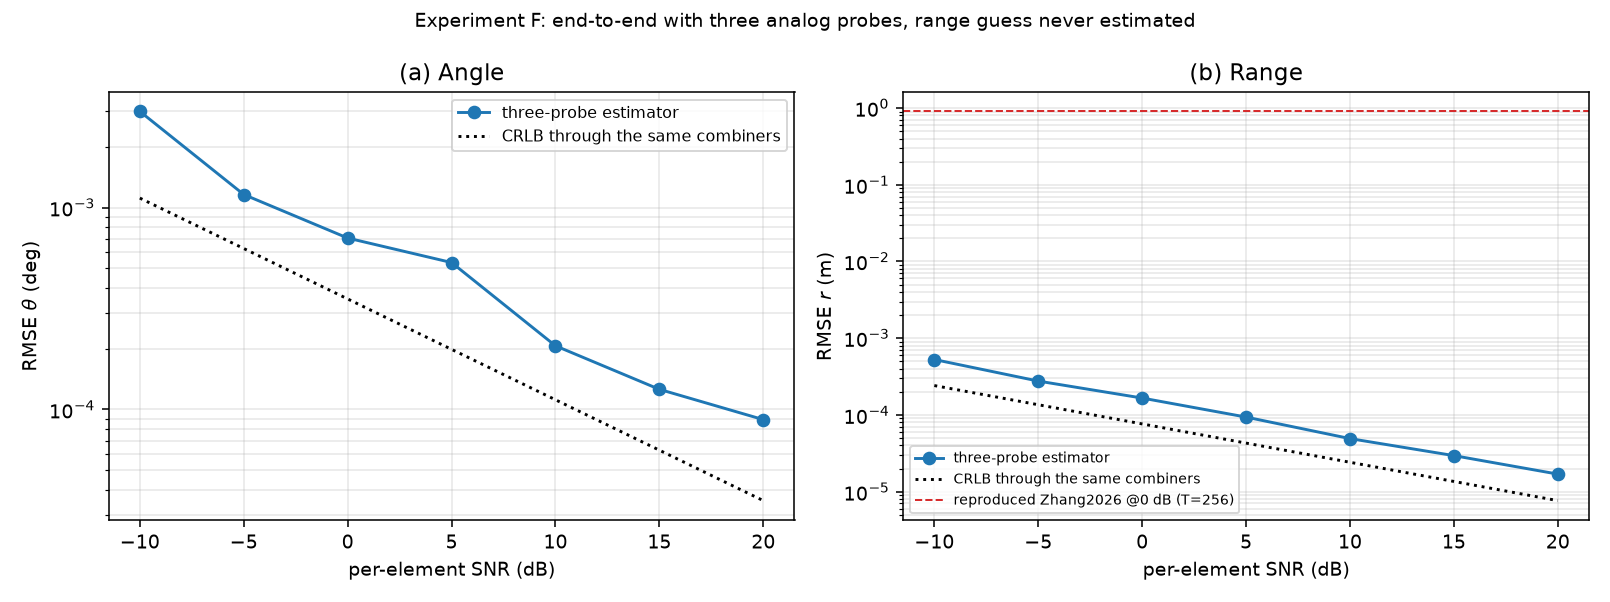
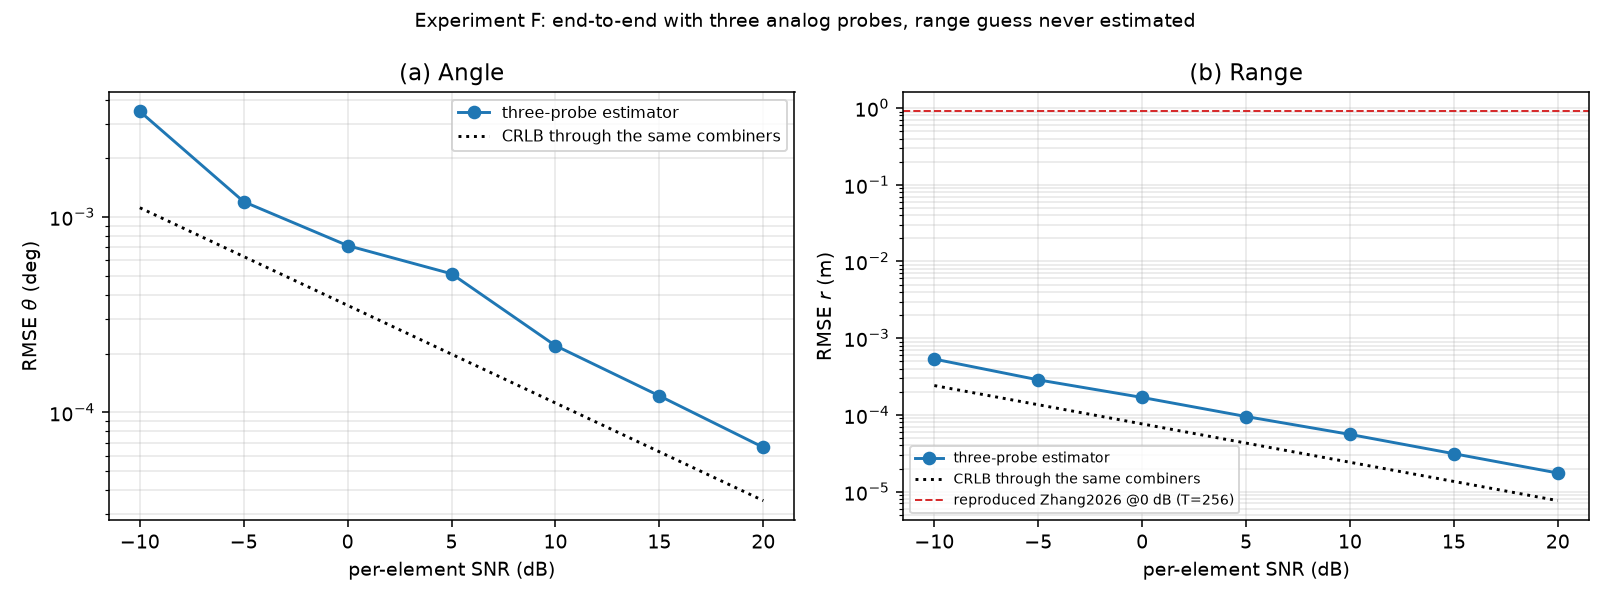
Use the measured coarse angle in Experiment F, and switch to Gauss-Newton
Stage B was being handed a fixed 0.016 deg coarse angle at every SNR, but that
figure came from a noiseless measurement; Experiment C measured the real
stage-A error per SNR, rising to 0.110 deg at -10 dB. Feeding in the measured
values flattered nothing and exposed a genuine defect: the derivative-free
simplex occasionally settled in a sidelobe about 1.5 beamwidths out, and single
such trials dominated the angle RMSE.

Bounding the angle search to three times the measured stage-A RMSE and
replacing the simplex with trust-region Gauss-Newton on the amplitude-
concentrated residual removes the outliers entirely: 1.87-3.12x the bound in
angle across the sweep with no window-edge hits, which the run now reports
rather than leaves unexamined. Range is unchanged and the sweep also runs
several times faster.

Claude-Session: https://claude.ai/code/session_01CiXyGmn6RkSvF3hrJKPw63

diff --git a/sim/exp_f_three_probe.py b/sim/exp_f_three_probe.py
@@ -32,7 +32,7 @@ the bound.  That factor is the thinning, not the estimator -- a spot check at
 import sys, os
 sys.path.insert(0, os.path.dirname(__file__))
 import numpy as np
-from scipy.optimize import minimize
+from scipy.optimize import least_squares
 import matplotlib
 matplotlib.use("Agg")
 import matplotlib.pyplot as plt
@@ -49,7 +49,13 @@ ML_DECIM = 4            # ML refinement thins further; the coarse FFT does not
 CKPT = os.path.join(os.path.dirname(__file__), "figs", "exp_f_ckpt.json")
 TIME_BUDGET = float(os.environ.get("EXP_F_BUDGET", 95))
 R_GUESS = 30.0                      # fixed; never estimated
-COARSE_ANGLE_ERR_DEG = 0.016        # what Experiment B actually delivers
+
+# The coarse angle handed to Stage B is not a constant.  Experiment B measured
+# 0.016 deg NOISELESSLY; under noise Experiment C measured it per SNR, and that
+# is what Stage B actually receives.  Using the noiseless figure at every SNR
+# would flatter the scheme at the low end, so the measured values are used.
+_c = np.load(os.path.join(FIG, "exp_c.npz"))
+COARSE_ANGLE_ERR_DEG = dict(zip([int(v) for v in _c["snr"]], _c["coarse_th"]))
 
 
 def beams(cfg, r0, th0, delta, f):
@@ -95,8 +101,15 @@ def coarse_range(z, f, r0):
     return r0 + dr, r0 - dr
 
 
-def estimate(cfg, z, V, f, th_init, r0):
-    """Two-parameter local ML on the whitened likelihood."""
+def estimate(cfg, z, V, f, th_init, r0, th_halfwidth=None):
+    """Two-parameter local ML on the whitened likelihood.
+
+    The angle search is bounded to th_init +- th_halfwidth.  Unbounded
+    Nelder-Mead occasionally walks into a sidelobe of the combined pattern about
+    1.5 beamwidths out and returns a confidently wrong angle; the bound keeps it
+    in the mainlobe.  The half-width is set to three times the MEASURED stage-A
+    angle RMSE, not tuned to the answer, and the fraction of trials that leave
+    the window is reported rather than hidden."""
     cands = [x for x in coarse_range(z, f, r0) if 0.5 < x < 200]
     if len(cands) == 2 and abs(cands[0] - cands[1]) < 1e-6:
         cands = cands[:1]                      # the FFT found no offset; one start suffices
@@ -110,12 +123,22 @@ def estimate(cfg, z, V, f, th_init, r0):
         den = np.vdot(h, h).real
         return -num / max(den, 1e-300)
 
-    best = None
+    def resid(p):
+        """Complex residual with the amplitude concentrated out, split for LM."""
+        h = response(cfg, p[0], p[1], V, f) @ W.T
+        alpha = np.vdot(h, zw) / max(np.vdot(h, h).real, 1e-300)
+        e = (zw - alpha * h).ravel()
+        return np.concatenate([e.real, e.imag])
+
+    best, best_cost = None, np.inf
     for r_try in cands:
-        sol = minimize(nll, [r_try, th_init], method="Nelder-Mead",
-                       options=dict(xatol=1e-10, fatol=1e-10, maxiter=300))
-        if best is None or sol.fun < best.fun:
-            best = sol
+        lo = [max(0.5, r_try - 5.0), th_init - (th_halfwidth or np.deg2rad(1.0))]
+        hi = [r_try + 5.0, th_init + (th_halfwidth or np.deg2rad(1.0))]
+        sol = least_squares(resid, [r_try, th_init], bounds=(lo, hi),
+                            method="trf", xtol=1e-14, ftol=1e-14, gtol=1e-14)
+        if sol.cost < best_cost:
+            best, best_cost = sol, sol.cost
+
     return (best.x[1], best.x[0]) if best is not None else (th_init, r0)
 
 
@@ -130,7 +153,9 @@ def run():
     print(f"[F] user ({np.rad2deg(th_true):.3f} deg, {r_true} m), N={cfg.N}, M={cfg.M}")
     print(f"    monopulse delta = {np.rad2deg(delta):.4f} deg (0.25 beamwidths), "
           f"range guess pinned at {R_GUESS} m, never estimated")
-    print(f"    T = 3 probes total (1 squint sweep for angle + 2 monopulse beams)\n")
+    print(f"    T = 3 probes total (1 squint sweep for angle + 2 monopulse beams)")
+    print(f"    stage-A angle error per SNR (measured in Experiment C): "
+          f"{ {k: round(float(v), 4) for k, v in COARSE_ANGLE_ERR_DEG.items()} }\n")
 
     import json, time
     done = json.load(open(CKPT)) if os.path.exists(CKPT) else {}
@@ -142,23 +167,26 @@ def run():
         if time.perf_counter() - t0 > TIME_BUDGET:
             print(f"  [budget reached, {len(done)}/{len(SNRS)} done -- re-run to continue]")
             return
-        et, er = [], []
+        ce = max(COARSE_ANGLE_ERR_DEG[snr], 1e-3)   # measured stage-A angle RMSE
+        et, er, n_edge = [], [], 0
         for _ in range(N_TRIAL):
-            th_hat0 = th_true + np.deg2rad(COARSE_ANGLE_ERR_DEG) * rng.standard_normal()
+            th_hat0 = th_true + np.deg2rad(ce) * rng.standard_normal()
             V = beams(cfg, R_GUESS, th_hat0, delta, f)
             z = simulate(cfg, r_true, th_true, V, f, snr, rng)
-            th, r = estimate(cfg, z, V, f, th_hat0, R_GUESS)
+            th, r = estimate(cfg, z, V, f, th_hat0, R_GUESS,
+                             th_halfwidth=np.deg2rad(3 * ce))
             et.append(th - th_true)
             er.append(r - r_true)
+            n_edge += abs(th - th_hat0) > 0.98 * np.deg2rad(3 * ce)
         rms = lambda v: float(np.sqrt(np.mean(np.square(v))))
         V0 = beams(cfg, R_GUESS, th_true, delta, f)
         bt, br = bounds(fim(cfg, r_true, th_true, snr, f, np.linalg.qr(V0)[0]))
-        done[str(snr)] = [np.rad2deg(rms(et)), rms(er), bt, br]
+        done[str(snr)] = [np.rad2deg(rms(et)), rms(er), bt, br, 100.0 * n_edge / N_TRIAL]
         json.dump(done, open(CKPT, "w"))
         d = done[str(snr)]
-        print(f"  SNR={snr:+3d} dB | RMSE_th {d[0]:.3e} deg (bound {d[2]:.3e}, "
-              f"{d[0]/d[2]:5.2f}x) | RMSE_r {d[1]:.3e} m (bound {d[3]:.3e}, "
-              f"{d[1]/d[3]:5.2f}x)", flush=True)
+        print(f"  SNR={snr:+3d} dB | RMSE_th {d[0]:.3e} deg ({d[0]/d[2]:5.2f}x) | "
+              f"RMSE_r {d[1]:.3e} m ({d[1]/d[3]:5.2f}x) | window +-{3*ce:.3f} deg, "
+              f"{d[4]:.0f}% at edge", flush=True)
 
     res_th = [done[str(s)][0] for s in SNRS]; res_r = [done[str(s)][1] for s in SNRS]
     b_th = [done[str(s)][2] for s in SNRS];   b_r = [done[str(s)][3] for s in SNRS]
